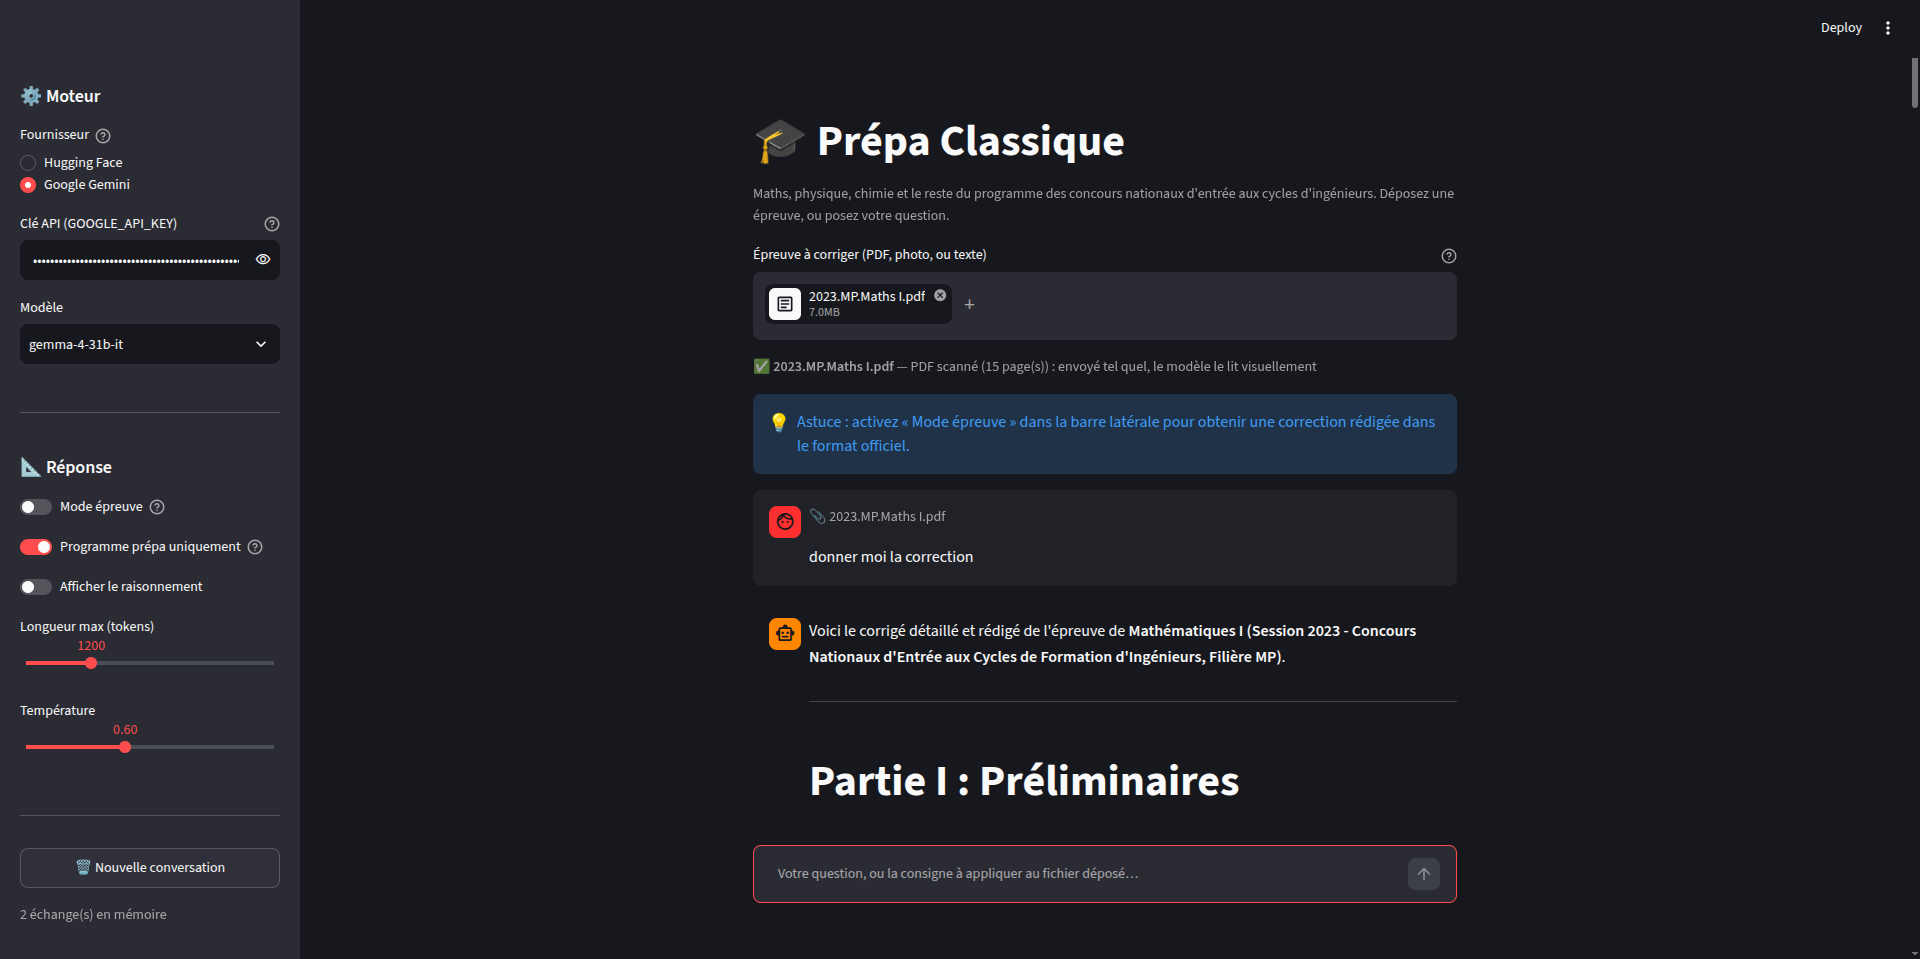
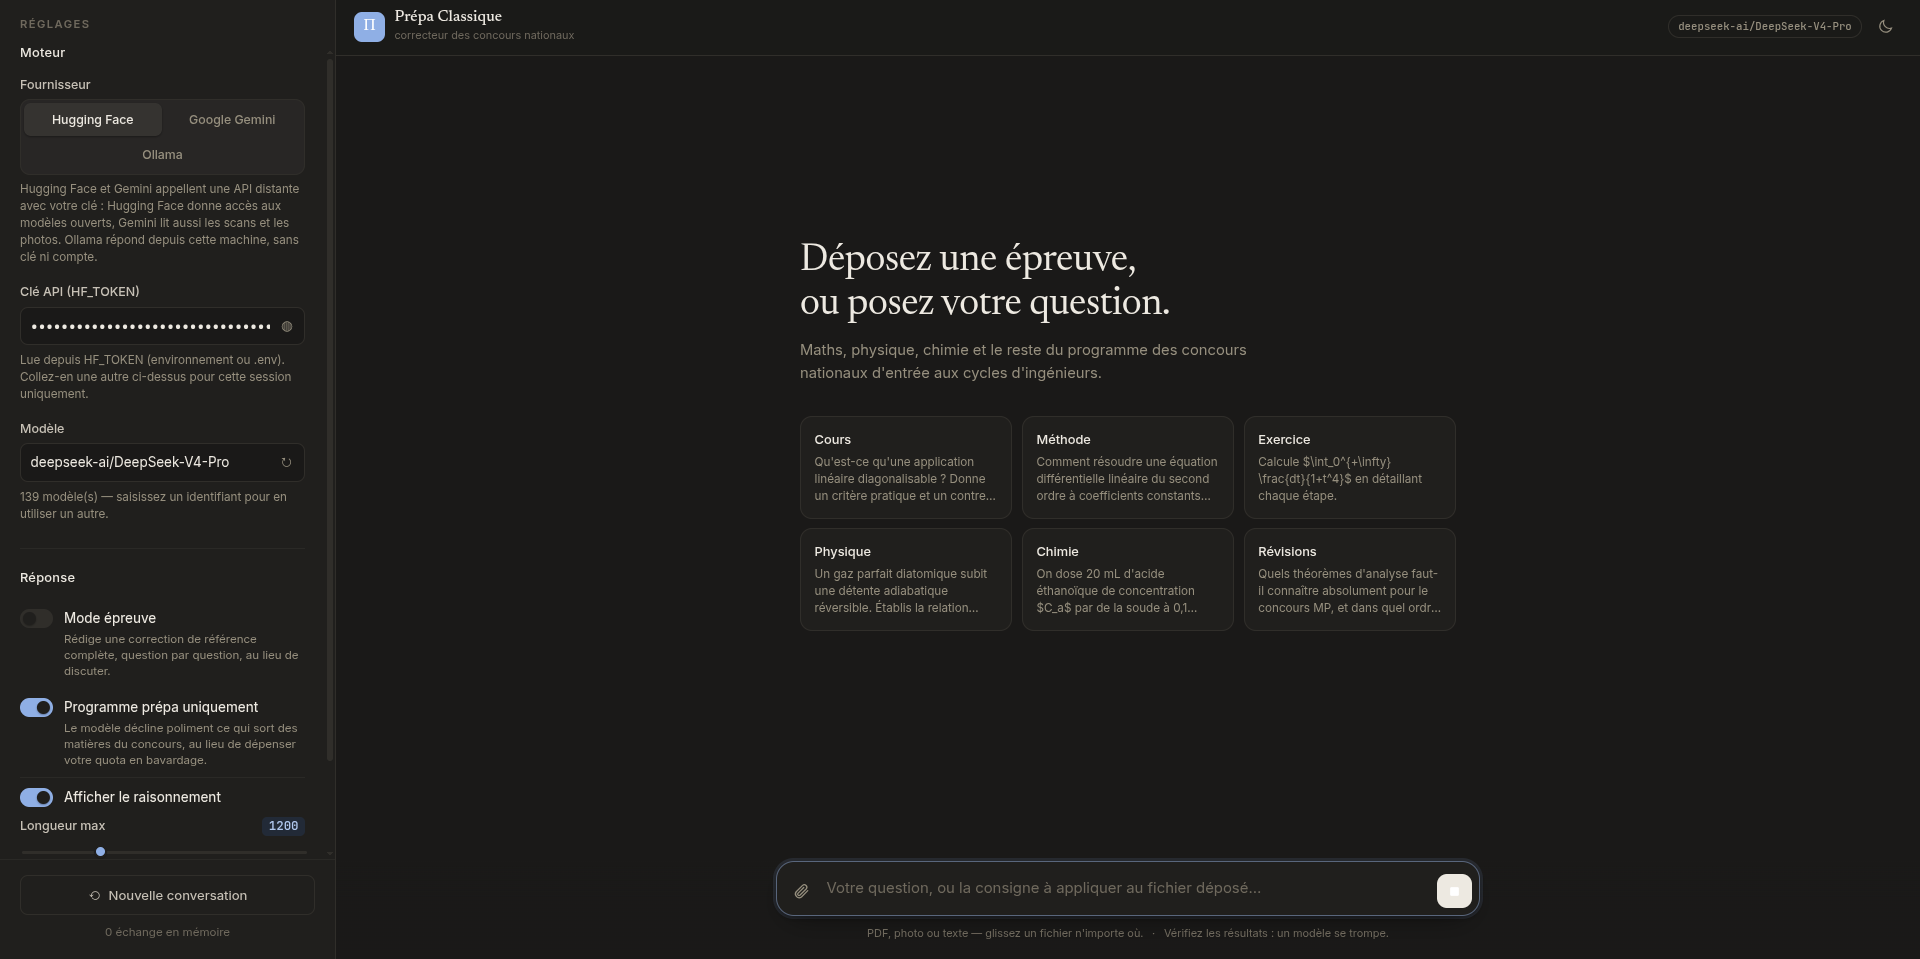
update project

diff --git a/src/i18n/content.ts b/src/i18n/content.ts
@@ -301,10 +301,10 @@ function buildBundle(lang: Lang) {
     {
       name: 'PrepAI-TN',
       desc: t(
-        'AI study assistant for Tunisian prépa students — upload a past exam paper and get a written correction.',
-        "Assistant d'étude IA pour les étudiants en prépa tunisienne — déposez une épreuve et obtenez une correction rédigée."
+        'AI corrector for the Tunisian prépa concours — upload an épreuve and get a written corrigé, or just ask.',
+        "Correcteur IA pour les concours de prépa tunisiens — déposez une épreuve et obtenez un corrigé rédigé, ou posez simplement votre question."
       ),
-      tags: ['Python', 'LLM', 'Gemini', 'Streamlit'],
+      tags: ['Python', 'LLM', 'Hugging Face', 'LoRA'],
       image: '/assets/images/projects/prepai-tn.png',
       fit: 'cover',
       link: 'https://github.com/anis-mselmi/PrepAI-TN',

diff --git a/src/data/content.ts b/src/data/content.ts
@@ -271,8 +271,8 @@ export const PROJECTS: Project[] = [
   },
   {
     name: 'PrepAI-TN',
-    desc: 'AI study assistant for Tunisian prépa students — upload a past exam paper and get a written correction.',
-    tags: ['Python', 'LLM', 'Gemini', 'Streamlit'],
+    desc: 'AI corrector for the Tunisian prépa concours — upload an épreuve and get a written corrigé, or just ask.',
+    tags: ['Python', 'LLM', 'Hugging Face', 'LoRA'],
     image: '/assets/images/projects/prepai-tn.png',
     fit: 'cover',
     link: 'https://github.com/anis-mselmi/PrepAI-TN',
